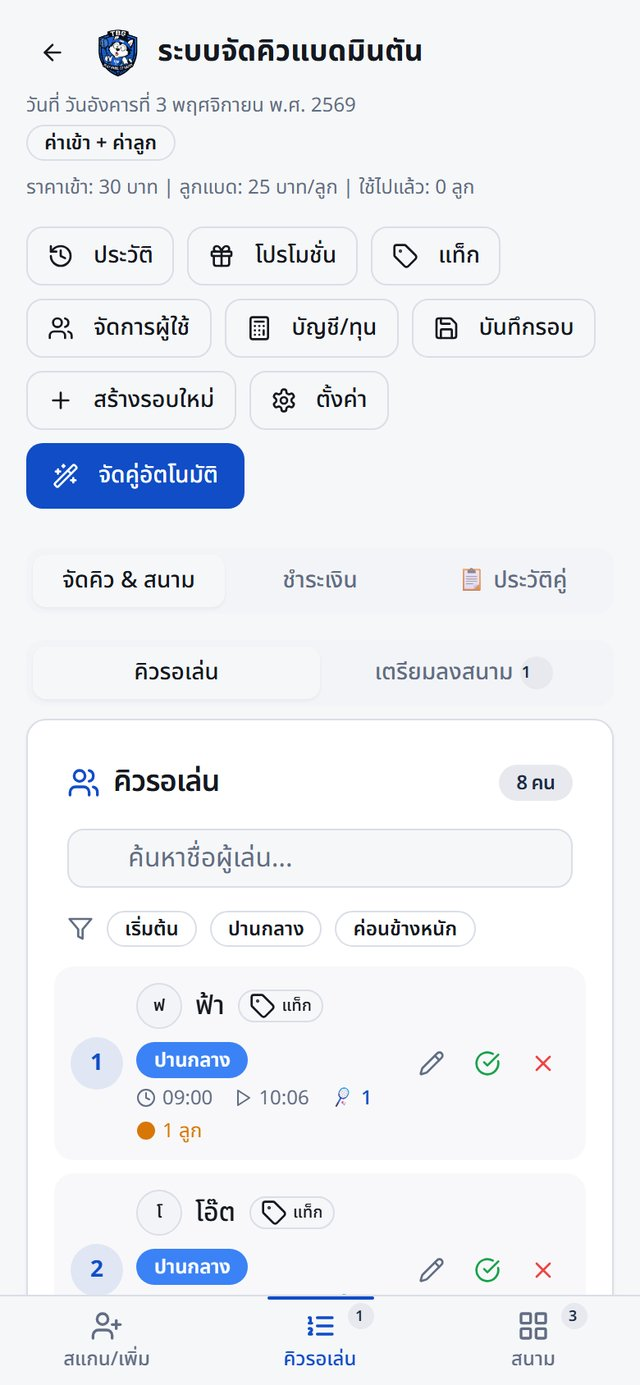
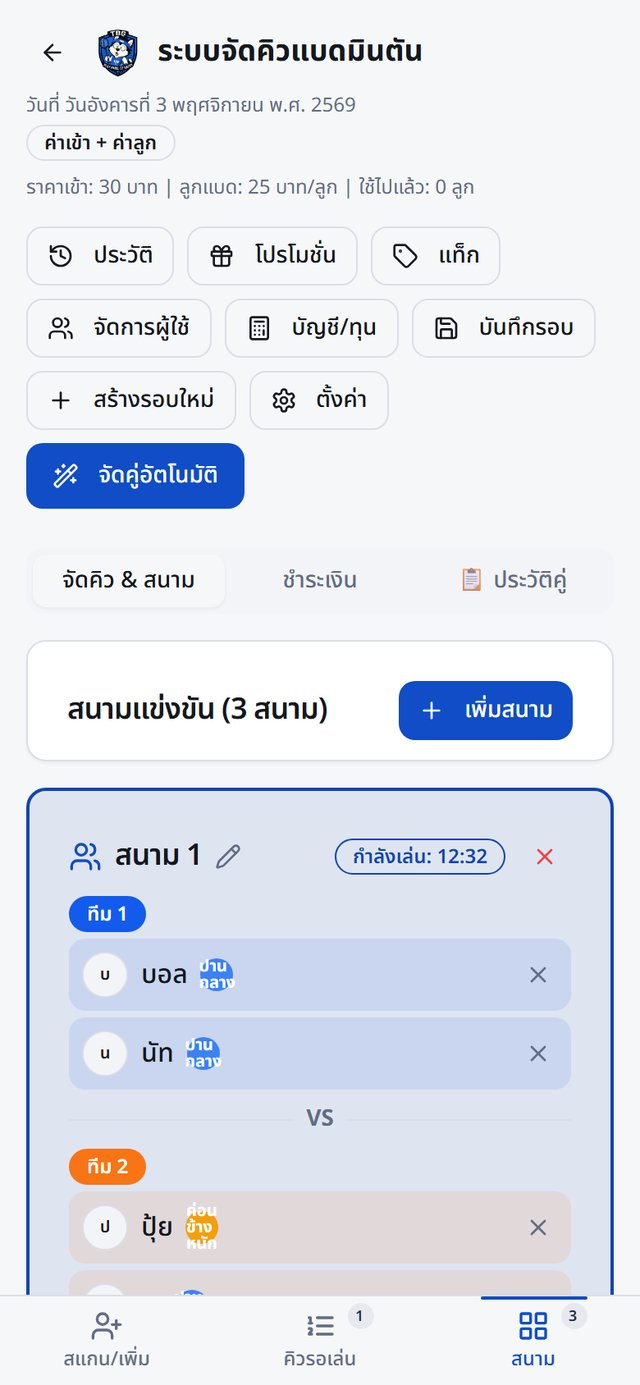
Compare the same courts tab in the Teebadgun organizer before and after

diff --git a/jeeno-portfolio/work/teebadgun.html b/jeeno-portfolio/work/teebadgun.html
@@ -277,20 +277,20 @@
       <div class="cs-ba-phones">
         <figure>
           <figcaption class="is-before" data-en="Before" data-th="ก่อน">Before</figcaption>
-          <div class="cs-phone"><img src="../assets/case-studies/tbg-before-admin.jpg" alt="Old organizer screen: nine buttons above a player queue" loading="lazy" /></div>
+          <div class="cs-phone"><img src="../assets/case-studies/tbg-before-admin.jpg" alt="Old courts tab for organizers: nine buttons above Court 1, which is cut off by the bottom of the screen" loading="lazy" /></div>
         </figure>
         <span class="cs-ba-arrow" aria-hidden="true">&#8594;</span>
         <figure>
           <figcaption class="is-after" data-en="After" data-th="หลัง">After</figcaption>
-          <div class="cs-phone"><img src="../assets/case-studies/tbg-after-admin.jpg" alt="New organizer screen: court cards with one main action each" loading="lazy" /></div>
+          <div class="cs-phone"><img src="../assets/case-studies/tbg-after-admin.jpg" alt="New courts tab for organizers: all three courts on one screen, with one main action each" loading="lazy" /></div>
         </figure>
       </div>
       <div class="cs-ba-body">
         <h3 data-en="Running courts as an organizer" data-th="เมื่อผู้จัดดูแลสนาม">Running courts as an organizer</h3>
         <p class="cs-ba-stat"><b>3 &#8594; 1</b><span data-en="steps to send a group to a free court" data-th="ขั้นตอนการส่งกลุ่มลงสนามว่าง">steps to send a group to a free court</span></p>
         <ul>
-          <li data-en="Before: nine buttons filled the top, pushing the queue and courts down." data-th="ก่อน: ปุ่ม 9 ปุ่มเต็มด้านบน ดันคิวและสนามลงไปด้านล่าง">Before: nine buttons filled the top, pushing the queue and courts down.</li>
-          <li data-en="After: courts come first, with one main button each and a labeled menu." data-th="หลัง: เห็นสนามก่อน แต่ละสนามมีปุ่มหลักปุ่มเดียว และมีเมนูที่มีชื่อกำกับ">After: courts come first, with one main button each and a labeled menu.</li>
+          <li data-en="Before: on the courts tab, nine buttons filled the top. The first screen showed only part of Court 1, and End game was further down." data-th="ก่อน: ในแท็บสนาม ปุ่ม 9 ปุ่มเต็มด้านบน จอแรกเห็นสนาม 1 ไม่ครบ และต้องเลื่อนลงไปจึงเจอปุ่มจบเกม">Before: on the courts tab, nine buttons filled the top. The first screen showed only part of Court 1, and End game was further down.</li>
+          <li data-en="After: all three courts fit on the first screen, with one main button each." data-th="หลัง: เห็นครบทั้ง 3 สนามในจอแรก และแต่ละสนามมีปุ่มหลักปุ่มเดียว">After: all three courts fit on the first screen, with one main button each.</li>
         </ul>
       </div>
     </div>
